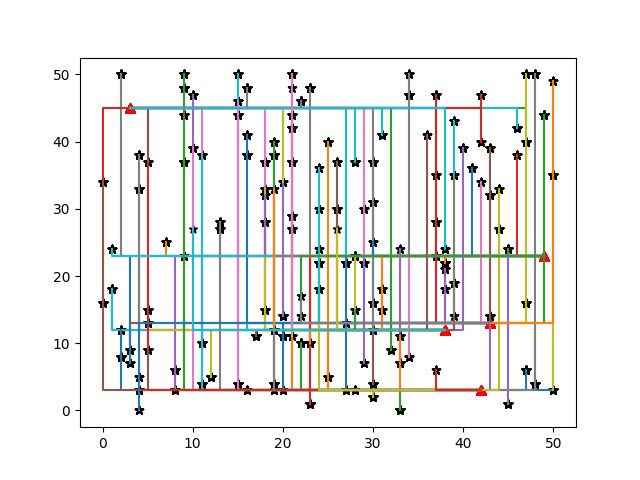
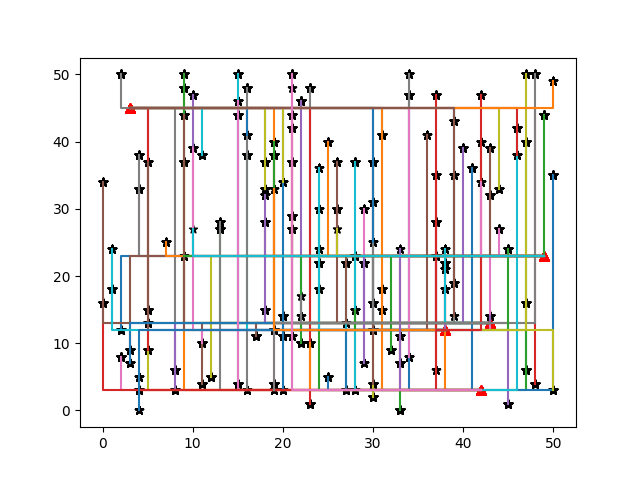
plot af

diff --git a/code/classes/algorithm1.py b/code/classes/algorithm1.py
@@ -212,58 +212,48 @@ reader = load_data.Load_data()
 batteries = reader.load_batteries()
 houses = reader.load_houses()
 
-<<<<<<< HEAD
-=======
 for i in range(100):
->>>>>>> 114b86d48fc11538026e00bd3fbaa4ad94a19b00
 
-for house in houses:
+  for house in houses:
 
-  for battery in batteries:
+    for battery in batteries:
 
-      # checks to see if battery is full
+        # checks to see if battery is full
 
-    battery.status(house)
-      # battery.status(old_house)
+      battery.status(house)
+        # battery.status(old_house)
 
-    if battery.battery_full == True:
-    
-      new_costs = house.calc_costs(battery)
-      old_houses = battery.houses_to_battery
+      if battery.battery_full == True:
+      
+        new_costs = house.calc_costs(battery)
+        old_houses = battery.houses_to_battery
 
-      for old_house in old_houses:
+        for old_house in old_houses:
 
-        old_costs = old_house.calc_costs(battery)
+          old_costs = old_house.calc_costs(battery)
 
-          # if old_house.connected_to != battery:
+            # if old_house.connected_to != battery:
 
-        if new_costs < old_costs:
+          if new_costs < old_costs:
 
-          old_house.deconnect_to_battery(battery)
-          battery.remove_house(old_house)
+            old_house.deconnect_to_battery(battery)
+            battery.remove_house(old_house)
+
+            if house.connected_to == None:
+
+              battery.connect_house(house)
+              house.connect_to_battery(battery)
+
+      else:
 
           if house.connected_to == None:
-
             battery.connect_house(house)
             house.connect_to_battery(battery)
+            # print(f"this is: {battery}: Houses: {battery.temp_houses_to_battery} output: {house.maxoutput} with costs: {house.calc_costs(house, battery)}") 
 
-    else:
-
-<<<<<<< HEAD
-      if house.connected_to == None:
-        battery.connect_house(house)
-        house.connect_to_battery(battery)
-        # print(f"this is: {battery}: Houses: {battery.temp_houses_to_battery} output: {house.maxoutput} with costs: {house.calc_costs(house, battery)}") 
-=======
-        if house.connected_to == None:
-          battery.connect_house(house)
-          house.connect_to_battery(battery)
-          # print(f"this is: {battery}: Houses: {battery.temp_houses_to_battery} output: {house.maxoutput} with costs: {house.calc_costs(house, battery)}") 
->>>>>>> 114b86d48fc11538026e00bd3fbaa4ad94a19b00
-
-for battery in batteries:
-  final = battery.temp_houses_to_battery
-  print(final)
+  for battery in batteries:
+    final = battery.temp_houses_to_battery
+    print(final)
 
 
 

diff --git a/code/classes/algorithm3.py b/code/classes/algorithm3.py
@@ -7,6 +7,9 @@ import house
 import battery
 import random as r
 
+import matplotlib
+import matplotlib.pyplot as plt
+from matplotlib import style
 
 reader = load_data.Load_data()
 batteries = reader.load_batteries()
@@ -74,4 +77,36 @@ for house in houses:
 
                 print(f"this is: {battery}: Houses: {battery.temp_houses_to_battery} output: {house.maxoutput} with costs: {house.calc_costs(battery)}") 
 
-        
+
+
+# Loop to plot coordinates batteries
+i = -1
+for battery in batteries:
+    i += 1
+    for house in battery.houses_to_battery:
+
+        # print(battery.houses_to_battery)
+        # for battery in batteries:
+        colors = ['r', 'k', 'b', 'g', 'c']
+
+        house_x = house.x
+        house_y = house.y
+
+        battery_x = battery.x
+        battery_y = battery.y
+
+        cutting_point_x = house.x
+        cutting_point_y = battery.y
+
+        #plot line between house and cutting point 
+        x = [house_x, cutting_point_x, battery_x]
+        y = [house_y, cutting_point_y, battery_y]
+
+        ax = plt.subplot(111)
+
+        houses_plt = ax.scatter(house.x, house.y, color='k', marker='*')
+        batteries_plt = ax.scatter(battery.x, battery.y, color='r', marker='^')
+
+        plt.plot(x,y, color= colors[i])
+
+plt.savefig("4plot.png")

diff --git a/code/classes/random1.py b/code/classes/random1.py
@@ -73,7 +73,7 @@ for house in houses:
 
     plt.plot(x,y)
     
-    if 
+    # if 
 
     # print(own_costs)
 for battery in batteries:
